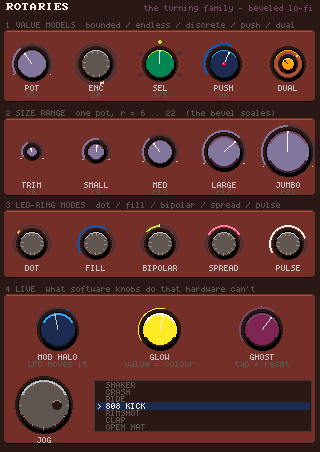
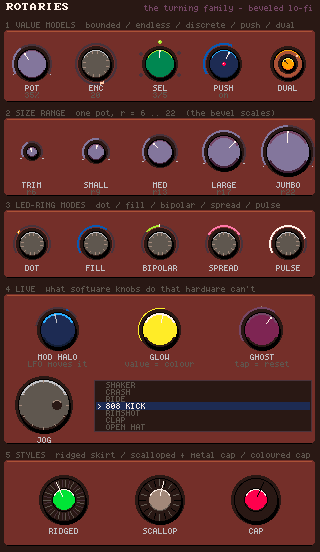
rotaries: collet STYLES row + rim-offset pointer + wheel-driven jog
Add a STYLES section (ridged-skirt coloured cap / scalloped + brushed-metal cap /
smooth coloured cap w/ black line) from real collet knobs, via one draw_styled
helper. Move the indicator groove off the hub to a rim mark on every knob (real
knobs mark the edge). Mouse wheel now steps the jog list like the other knobs.

diff --git a/tools/carts/rotaries.cart.js b/tools/carts/rotaries.cart.js
@@ -1,3 +1,3 @@
 // rotaries runs tall so its four study rows each get comfortable room:
 // value models / size range / LED-ring modes / the LIVE software layer.
-module.exports = { screenW: 320, screenH: 452, scale: 2 };
+module.exports = { screenW: 320, screenH: 552, scale: 2 };

diff --git a/tools/carts/rotaries.c b/tools/carts/rotaries.c
@@ -41,6 +41,7 @@ static float push_v = 0.6f;  static int push_on = 1;   // push-encoder + its LED
 static float dual_o = 0.7f, dual_i = 0.3f;             // concentric outer/inner
 static float ring_v[5] = { 0.30f, 0.65f, 0.30f, 0.5f, 0.8f };  // the 5 ring modes
 static float size_v[5] = { 0.4f, 0.55f, 0.35f, 0.7f, 0.5f };   // the size range
+static float sty_v[3]  = { 0.4f, 0.55f, 0.6f };                // the collet styles
 
 // ── LIVE section (the software layer — behaviours hardware can't do) ─────────
 static float halo_base = 0.45f;                 // MOD HALO: the base value your hand sets
@@ -92,11 +93,13 @@ static void rot_knurl(int cx, int cy, int r, int col, float spin) {
              cx + (int)dx(r - 1, a + spin), cy + (int)dy(r - 1, a + spin), col);
 }
 
-// the pointer a BOUNDED control earns (its angle is real)
+// the pointer a BOUNDED control earns (its angle is real). It's a groove near the
+// RIM, not a spoke from the hub — real knobs mark the edge, not the centre.
 static void rot_pointer(int cx, int cy, int r, float ang, int col) {
-    int ex = cx + (int)dx(r - 2, ang), ey = cy + (int)dy(r - 2, ang);
-    line(cx, cy, ex, ey, col);
-    circfill(ex, ey, 1, col);
+    int inner = r > 7 ? (int)(r * 0.45f) : 0;
+    line(cx + (int)dx(inner, ang), cy + (int)dy(inner, ang),
+         cx + (int)dx(r - 2, ang), cy + (int)dy(r - 2, ang), col);
+    circfill(cx + (int)dx(r - 2, ang), cy + (int)dy(r - 2, ang), 1, col);
 }
 
 // the value halo (control-vocabulary.md §4) around a ring-encoder
@@ -136,6 +139,46 @@ static void draw_pot(int cx, int cy, int r, float v, int hot) {
     }
     rot_body(cx, cy, r, CLR_INDIGO, CLR_MAUVE, CLR_DARKER_PURPLE, hot);
     rot_pointer(cx, cy, r, A0 + v * SW, CLR_WHITE);
+}
+
+// a two-part collet knob: a black skirt (smooth / ridged / scalloped) + an inner
+// cap (coloured, or brushed metal). style 0 = smooth coloured cap, 1 = ridged skirt,
+// 2 = scalloped skirt + metal cap. `groove` = the indicator-groove colour.
+static void draw_styled(int cx, int cy, int r, float v, int cap, int groove, int style, int hot) {
+    circfill(cx, cy, r + 3, CLR_BROWNISH_BLACK);          // socket
+    rot_shadow(cx, cy, r);
+    circfill(cx, cy, r, CLR_BROWNISH_BLACK);              // black skirt
+    if (style == 1)                                       // fine dense ridges (fluted)
+        for (float a = 0; a < 360; a += 12) {
+            int c = ((int)(a / 12)) & 1 ? CLR_DARK_GREY : CLR_DARKER_GREY;
+            line(cx + (int)dx(r * 0.62f, a), cy + (int)dy(r * 0.62f, a),
+                 cx + (int)dx(r - 1, a),     cy + (int)dy(r - 1, a), c);
+        }
+    else if (style == 2)                                  // fewer deep scallop notches
+        for (float a = 0; a < 360; a += 36) {
+            line(cx + (int)dx(r * 0.66f, a),      cy + (int)dy(r * 0.66f, a),
+                 cx + (int)dx(r - 1, a),          cy + (int)dy(r - 1, a), CLR_BLACK);
+            line(cx + (int)dx(r * 0.66f, a + 18), cy + (int)dy(r * 0.66f, a + 18),
+                 cx + (int)dx(r - 1, a + 18),     cy + (int)dy(r - 1, a + 18), CLR_DARK_GREY);
+        }
+    arc(cx, cy, r, 205, 335, CLR_DARK_GREY);              // skirt sheen / shade
+    arc(cx, cy, r,  25, 155, CLR_BLACK);
+    arc(cx, cy, r, 0, 360, hot ? CLR_WHITE : CLR_BLACK);  // rim
+    int cr = (int)(r * 0.58f);                            // the inner cap
+    if (style == 2) {                                     // brushed-metal cap
+        circfill(cx, cy, cr, CLR_MEDIUM_GREY);
+        ring(cx, cy, cr - 2, cr - 1, 205, 335, CLR_WHITE);
+        ring(cx, cy, cr - 2, cr - 1,  25, 155, CLR_DARK_GREY);
+        arc(cx, cy, cr, 0, 360, CLR_BROWNISH_BLACK);
+    } else {                                              // coloured cap
+        circfill(cx, cy, cr, cap);
+        ring(cx, cy, cr - 2, cr - 1, 205, 335, CLR_WHITE);
+        ring(cx, cy, cr - 2, cr - 1,  25, 155, CLR_BROWNISH_BLACK);
+        arc(cx, cy, cr, 0, 360, CLR_BLACK);
+    }
+    float ang = A0 + v * SW;                              // indicator groove: cap → rim
+    line(cx + (int)dx(cr * 0.35f, ang), cy + (int)dy(cr * 0.35f, ang),
+         cx + (int)dx(r - 2, ang),      cy + (int)dy(r - 2, ang), groove);
 }
 
 static void led(int x, int y, int on, int col) {
@@ -375,6 +418,8 @@ void draw(void) {
         }
         jog_pos += jog_vel; jog_ang += jog_vel * 40;
         hot = hot || ui_hover(cx - r, cy - r, 2 * r + 1, 2 * r + 1);
+        if (mouse_wheel() != 0 && ui_hover(cx - r, cy - r, 2 * r + 1, 2 * r + 1))
+            jog_pos += mouse_wheel();                                 // wheel steps the list too
         int idx = (((int)floorf(jog_pos) % NLIB) + NLIB) % NLIB;
 
         rot_body(cx, cy, r, CLR_DARK_GREY, CLR_LIGHT_GREY, CLR_BROWNISH_BLACK, hot);
@@ -395,6 +440,25 @@ void draw(void) {
                           print(">", lx + 4, yy, CLR_WHITE); }
             print(LIB[li], lx + 12, yy, k == 0 ? CLR_WHITE : CLR_DARK_GREY);
         }
+    }
+
+    // ── ROW 5 — collet STYLES: same value model, different dress ───────────
+    print("5 STYLES  ridged skirt / scalloped + metal cap / coloured cap", 6, 452, CLR_DARK_GREY);
+    faceplate(4, 460, 312, 86);
+    {
+        int cy = 500, r = 22;
+        int scol[3] = { 64, 160, 256 };
+        int h0 = rot_drag(&sty_v[0], scol[0], cy, r, &sty_v[0], 1);
+        draw_styled(scol[0], cy, r, sty_v[0], CLR_GREEN, CLR_WHITE, 1, h0);   // ridged
+        plabel("RIDGED", scol[0], cy + r + 6, CLR_LIGHT_GREY);
+
+        int h1 = rot_drag(&sty_v[1], scol[1], cy, r, &sty_v[1], 1);
+        draw_styled(scol[1], cy, r, sty_v[1], 0, CLR_WHITE, 2, h1);           // scalloped + metal
+        plabel("SCALLOP", scol[1], cy + r + 6, CLR_LIGHT_GREY);
+
+        int h2 = rot_drag(&sty_v[2], scol[2], cy, r, &sty_v[2], 1);
+        draw_styled(scol[2], cy, r, sty_v[2], CLR_RED, CLR_BLACK, 0, h2);     // coloured cap, black line
+        plabel("CAP", scol[2], cy + r + 6, CLR_LIGHT_GREY);
     }
 
     font(FONT_NORMAL);